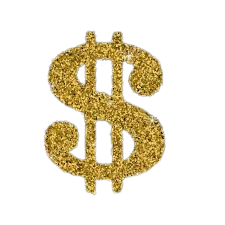
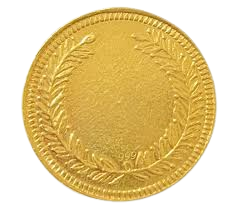
added more

diff --git a/index.html b/index.html
@@ -107,10 +107,10 @@
             </div>
             <div class="edu-details">
               <ul class="accomplishment-list">
-                <li>Published 2 research papers in highly-regarded international journals[cite: 44].</li>
+                <li>Published 2 research papers in highly-regarded international journals.</li>
                 <li>Served as a Student Coordinator, driving advanced research activities and academic initiatives.</li>
                 <li>Founded and actively manage <a href="https://medium.com/latent-space" target="_blank" style="color: var(--accent); text-decoration: none;">Latent Space</a>, a dedicated publication house on Medium focused on AI & ML insights.</li>
-                <li>Conducted rigorous coursework experiments focusing on Quantum-Enhanced architectures and scalable LLM fine-tuning[cite: 36, 37].</li>
+                <li>Conducted rigorous coursework experiments focusing on Quantum-Enhanced architectures and scalable LLM fine-tuning.</li>
               </ul>
             </div>
           </div>
@@ -126,10 +126,10 @@
             <div class="edu-details">
               <ul class="accomplishment-list">
                 <li>Core contributor to the eBAJA SAEINDIA team, designing and developing electric all-terrain vehicles.</li>
-                <li>Achieved official certification and worked as a Pega Senior System Architect, delivering production-ready enterprise solutions[cite: 107].</li>
-                <li>Hosted "Impulse", a highly successful National Level Technical Symposium for the Electrical and Electronics Engineering department[cite: 26].</li>
+                <li>Achieved official certification and worked as a Pega Senior System Architect, delivering production-ready enterprise solutions.</li>
+                <li>Hosted "Impulse", a highly successful National Level Technical Symposium for the Electrical and Electronics Engineering department.</li>
                 <li>Secured 1st Prize at the Quality Circle Forum of India (QCFI) competition for operational excellence and innovation.</li>
-                <li>Pioneered early foundational projects in intelligent automation and RPA ecosystems[cite: 88, 89].</li>
+                <li>Pioneered early foundational projects in intelligent automation and RPA ecosystems.</li>
               </ul>
             </div>
           </div>
@@ -265,7 +265,7 @@
         <div class="tag">05 — Get in Touch</div>
         <h2>CONTACT</h2>
         <p class="body-text">
-          I believe in open collaboration, research-backed implementation, and AI with real-world resonance. Let's build systems that don't just automate, rather understand.
+          I believe in open collaboration, research-backed innovation, and AI that resonates with the complexities of the real world. The future lies not in systems that simply automate tasks, but in systems that understand context, augment human potential, and create lasting impact.
         </p>
 
         <!-- Social Links (Centered and Responsive) -->
